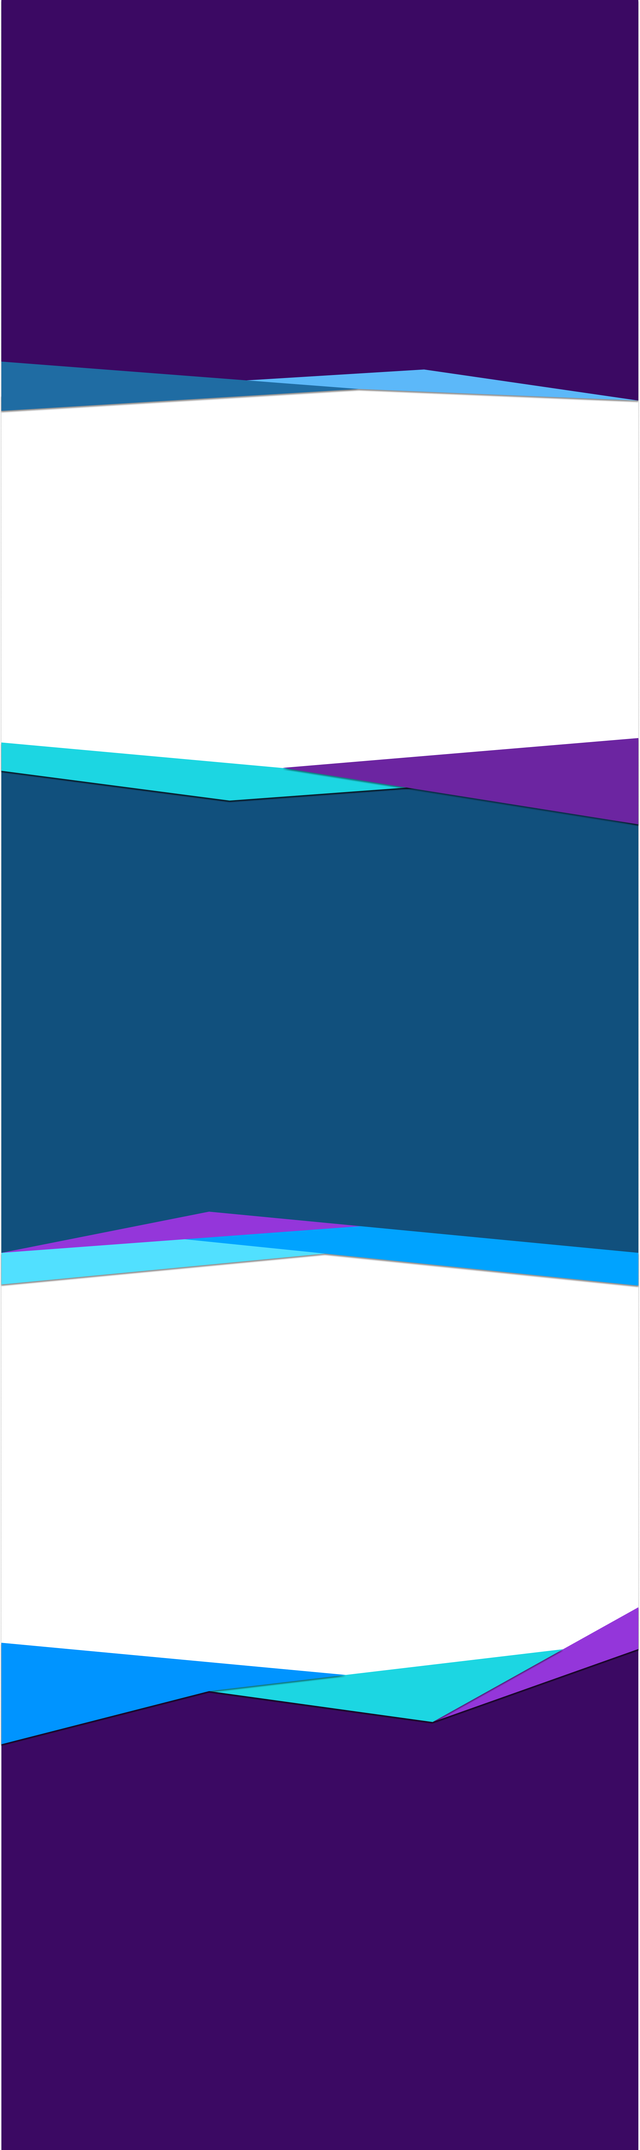
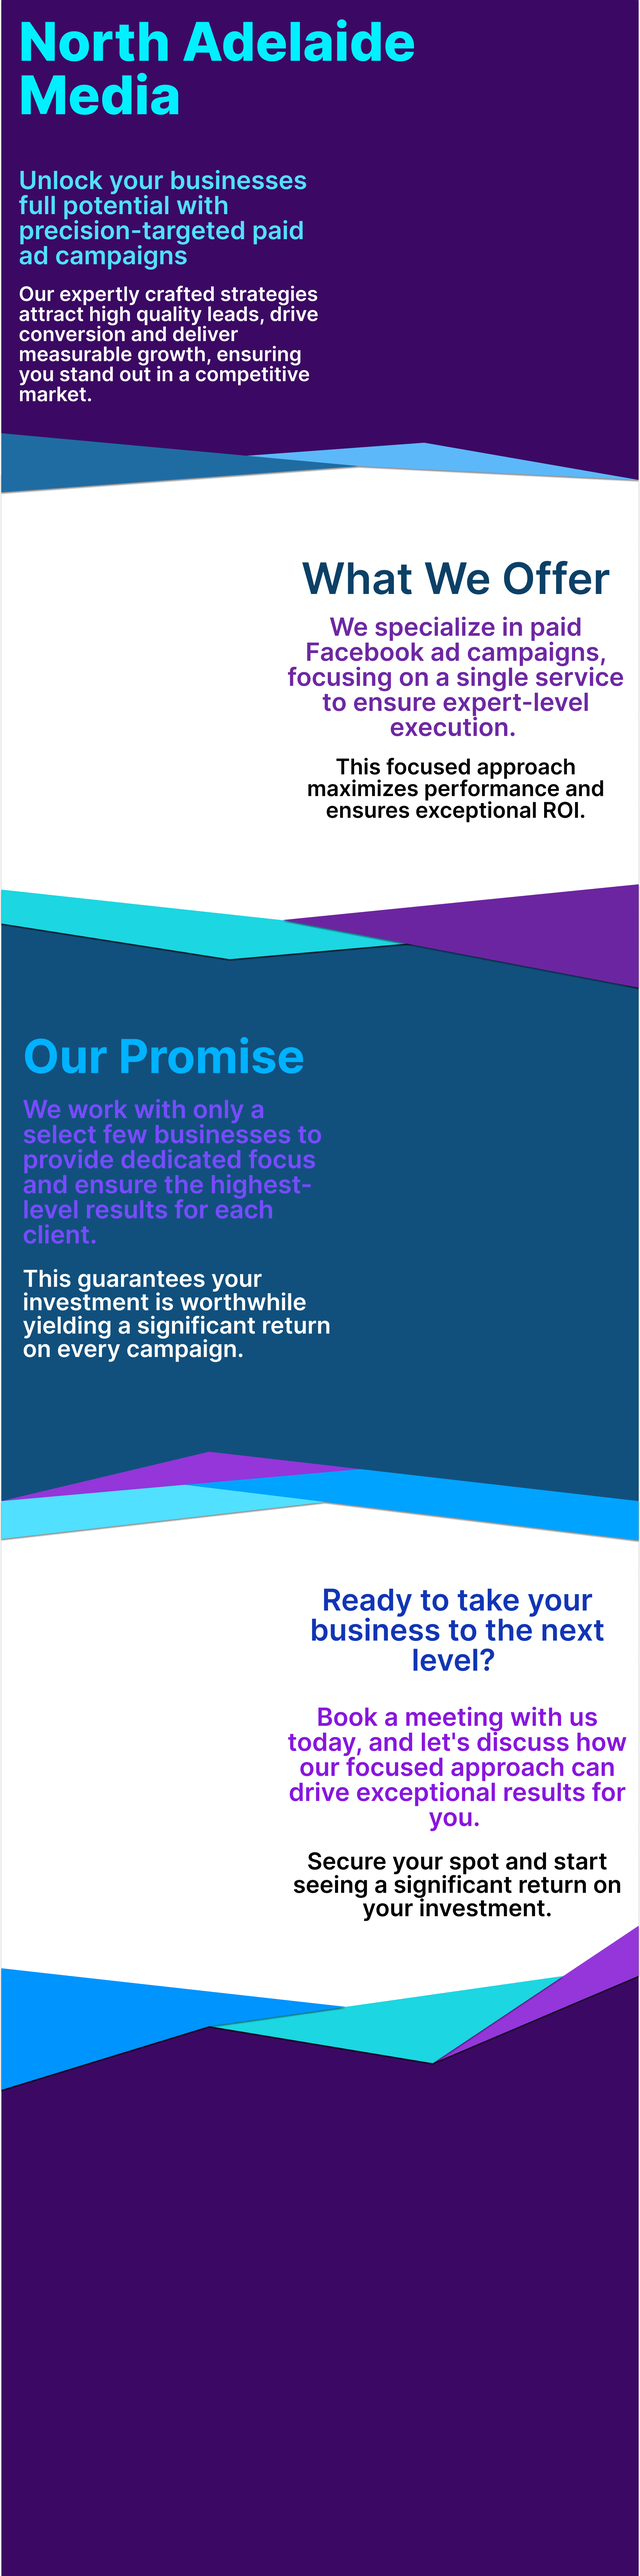
Add files via upload

diff --git a/NAM Website V2.html b/NAM Website V2.html
@@ -1,0 +1,197 @@
+<!DOCTYPE html>
+<html>
+<head>
+    <meta name="viewport" content="width=device-width, initial-scale=1.0">
+</head>
+<style>
+
+contact{
+    position: absolute;
+    top: 4900px;
+    left: 0;
+    background-color: rgb(255, 0, 0);
+    width: 500px;
+    border: 15px solid rgb(17, 255, 0);
+    padding: 10px;
+    margin: 20px;
+}
+
+@media only screen and (max-width: 600px) {
+    body{
+        background-image: url("backgroundPhone.png");
+        background-repeat: no-repeat;    
+        background-size: 100% 4600px;
+    }
+    Button1 {
+        position: absolute;
+        top: 650px;
+        left: 15%;
+    }
+    Button2 {
+        position: absolute;
+        top: 1450px;
+        left: 15%;
+    }
+    Button3 {
+        position: absolute;
+        top: 2450px;
+        left: 15%;
+    }
+    Button4 {
+        position: absolute;
+        top: 3400px;
+        left: 15%;
+    }
+}
+    
+@media only screen and (min-width: 601px) {
+    body{
+        background-image: url("backgroundPhone.png");
+        background-repeat: no-repeat;    
+        background-size: 100% 4600px;
+    }
+    Button1 {
+        position: absolute;
+        top: 650px;
+        right: 15%;
+    }
+    Button2 {
+        position: absolute;
+        top: 1450px;
+        left: 15%;
+    }
+    Button3 {
+        position: absolute;
+        top: 2450px;
+        right: 15%;
+    }
+    Button4 {
+        position: absolute;
+        top: 3400px;
+        left: 15%;
+    }
+}
+    
+@media only screen and (min-width: 768px) {
+    body{
+        background-image: url("backgroundPhone.png");
+        background-repeat: no-repeat;    
+        background-size: 100% 4600px;
+    }
+    Button1 {
+        position: absolute;
+        top: 650px;
+        right: 25%;
+    }
+    Button2 {
+        position: absolute;
+        top: 1450px;
+        left: 25%;
+    }
+    Button3 {
+        position: absolute;
+        top: 2450px;
+        right: 25%;
+    }
+    Button4 {
+        position: absolute;
+        top: 3400px;
+        left: 25%;
+    }
+
+}
+    
+@media only screen and (min-width: 992px) {
+    body{
+        background-image: url("background.png");
+        background-repeat: no-repeat;    
+        background-size: 100% 3800px;
+    }
+    Button1 {
+        position: absolute;
+        top: 500px;
+        right: 5%;
+    }
+    Button2 {
+        position: absolute;
+        top: 1150px;
+        left: 5%;
+    }
+    Button3 {
+        position: absolute;
+        top: 2000px;
+        right: 5%;
+    }
+    Button4 {
+        position: absolute;
+        top: 2750px;
+        left: 5%;
+    }
+
+}
+@media only screen and (min-width: 2500px) {
+    body{
+        background-image: url("background.png");
+        background-repeat: no-repeat;    
+        background-size: 100% 3800px;
+    }
+    Button1 {
+        position: absolute;
+        top: 500px;
+        right: 10%;
+        }
+    Button2 {
+        position: absolute;
+        top: 1150px;
+        left: 10%;
+    }
+    Button3 {
+        position: absolute;
+        top: 2000px;
+        right: 10%;
+    }
+    Button4 {
+        position: absolute;
+        top: 2750px;
+        left: 10%;
+    }
+}
+
+
+
+</style>
+
+
+
+<body>
+    <Button1>
+        <form action="https://calendly.com/rylysaght/30min">
+            <input type="image" src="MeetingButton2.png" width="450" height="140">
+        </form>
+    </Button1>
+    <Button2>
+        <form action="https://calendly.com/rylysaght/30min">
+            <input type="image" src="MeetingButton.png" width="450" height="140">
+        </form>
+    </Button2>
+    <Button3>
+        <form action="https://calendly.com/rylysaght/30min">
+            <input type="image" src="MeetingButton2.png" width="450" height="140">
+        </form>
+    </Button3>
+    <Button4>
+        <form action="https://calendly.com/rylysaght/30min">
+            <input type="image" src="MeetingButton.png" width="450" height="140">
+        </form>
+    </Button4>
+    <contact>
+        <p1>I love scaming people</p1>
+    </contact>
+
+
+</body>
+
+<footer>
+</footer>
+
+</html>
